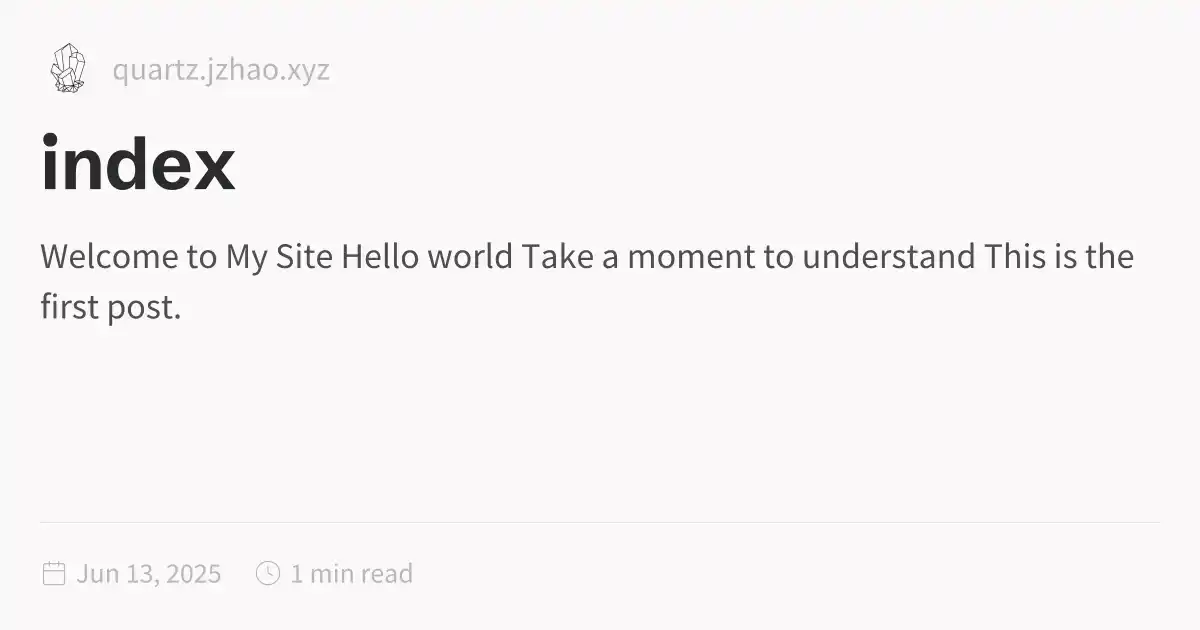
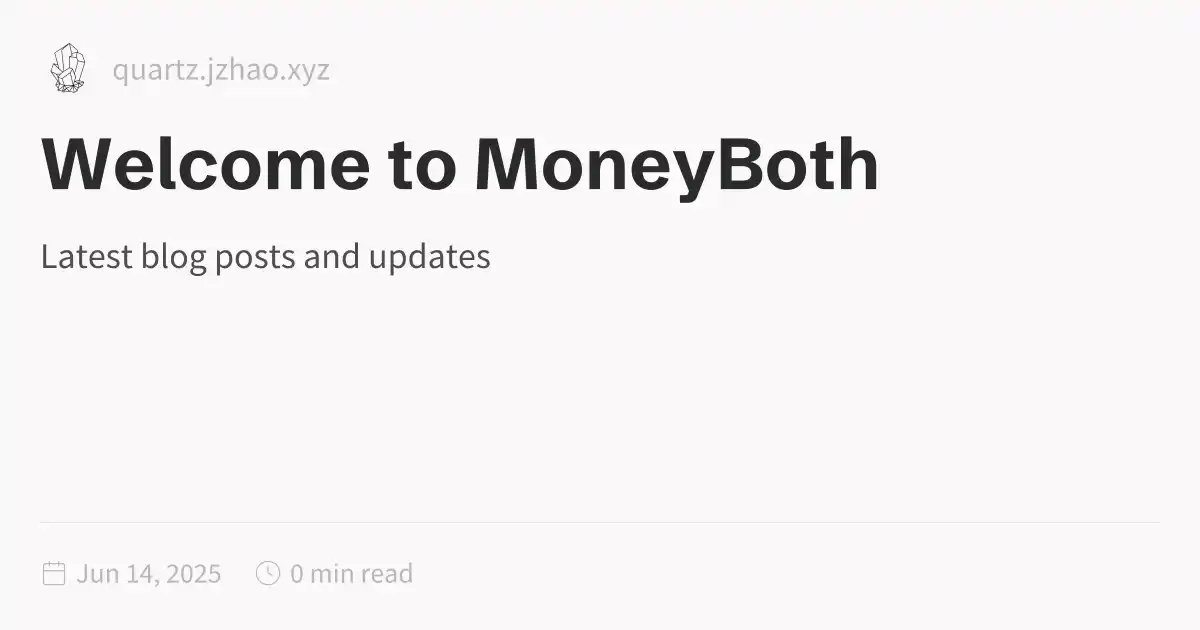
Update site content

Changed region(s): [[0.0308, 0.2111, 0.74, 0.3317], [0.0308, 0.3921, 0.9558, 0.5127]]

diff --git a/blog.html b/blog.html
@@ -1,0 +1,131 @@
+<!DOCTYPE html>
+<html lang="en"><head><title>Blog</title><meta charset="utf-8"/><link rel="preconnect" href="https://fonts.googleapis.com"/><link rel="preconnect" href="https://fonts.gstatic.com"/><link rel="stylesheet" href="https://fonts.googleapis.com/css2?family=Schibsted Grotesk:wght@400;700&amp;family=Source Sans Pro:ital,wght@0,400;0,600;1,400;1,600&amp;family=IBM Plex Mono:wght@400;600&amp;display=swap"/><link rel="preconnect" href="https://cdnjs.cloudflare.com" crossorigin="anonymous"/><meta name="viewport" content="width=device-width, initial-scale=1.0"/><meta name="og:site_name" content="MoneyBoth"/><meta property="og:title" content="Blog"/><meta property="og:type" content="website"/><meta name="twitter:card" content="summary_large_image"/><meta name="twitter:title" content="Blog"/><meta name="twitter:description" content="All blog posts"/><meta property="og:description" content="All blog posts"/><meta property="og:image:alt" content="All blog posts"/><meta property="twitter:domain" content="quartz.jzhao.xyz"/><meta property="og:url" content="https://quartz.jzhao.xyz/blog"/><meta property="twitter:url" content="https://quartz.jzhao.xyz/blog"/><link rel="icon" href="./static/icon.png"/><meta name="description" content="All blog posts"/><meta name="generator" content="Quartz"/><link href="./index.css" rel="stylesheet" type="text/css" spa-preserve/><style>.expand-button {
+  position: absolute;
+  display: flex;
+  float: right;
+  padding: 0.4rem;
+  margin: 0.3rem;
+  right: 0;
+  color: var(--gray);
+  border-color: var(--dark);
+  background-color: var(--light);
+  border: 1px solid;
+  border-radius: 5px;
+  opacity: 0;
+  transition: 0.2s;
+}
+.expand-button > svg {
+  fill: var(--light);
+  filter: contrast(0.3);
+}
+.expand-button:hover {
+  cursor: pointer;
+  border-color: var(--secondary);
+}
+.expand-button:focus {
+  outline: 0;
+}
+
+pre:hover > .expand-button {
+  opacity: 1;
+  transition: 0.2s;
+}
+
+#mermaid-container {
+  position: fixed;
+  contain: layout;
+  z-index: 999;
+  left: 0;
+  top: 0;
+  width: 100vw;
+  height: 100vh;
+  overflow: hidden;
+  display: none;
+  backdrop-filter: blur(4px);
+  background: rgba(0, 0, 0, 0.5);
+}
+#mermaid-container.active {
+  display: inline-block;
+}
+#mermaid-container > #mermaid-space {
+  border: 1px solid var(--lightgray);
+  background-color: var(--light);
+  border-radius: 5px;
+  position: fixed;
+  top: 50%;
+  left: 50%;
+  transform: translate(-50%, -50%);
+  height: 80vh;
+  width: 80vw;
+  overflow: hidden;
+}
+#mermaid-container > #mermaid-space > .mermaid-content {
+  padding: 2rem;
+  position: relative;
+  transform-origin: 0 0;
+  transition: transform 0.1s ease;
+  overflow: visible;
+  min-height: 200px;
+  min-width: 200px;
+}
+#mermaid-container > #mermaid-space > .mermaid-content pre {
+  margin: 0;
+  border: none;
+}
+#mermaid-container > #mermaid-space > .mermaid-content svg {
+  max-width: none;
+  height: auto;
+}
+#mermaid-container > #mermaid-space > .mermaid-controls {
+  position: absolute;
+  bottom: 20px;
+  right: 20px;
+  display: flex;
+  gap: 8px;
+  padding: 8px;
+  background: var(--light);
+  border: 1px solid var(--lightgray);
+  border-radius: 6px;
+  box-shadow: 0 2px 4px rgba(0, 0, 0, 0.1);
+  z-index: 2;
+}
+#mermaid-container > #mermaid-space > .mermaid-controls .mermaid-control-button {
+  display: flex;
+  align-items: center;
+  justify-content: center;
+  width: 32px;
+  height: 32px;
+  padding: 0;
+  border: 1px solid var(--lightgray);
+  background: var(--light);
+  color: var(--dark);
+  border-radius: 4px;
+  cursor: pointer;
+  font-size: 16px;
+  font-family: var(--bodyFont);
+  transition: all 0.2s ease;
+}
+#mermaid-container > #mermaid-space > .mermaid-controls .mermaid-control-button:hover {
+  background: var(--lightgray);
+}
+#mermaid-container > #mermaid-space > .mermaid-controls .mermaid-control-button:active {
+  transform: translateY(1px);
+}
+#mermaid-container > #mermaid-space > .mermaid-controls .mermaid-control-button:nth-child(2) {
+  width: auto;
+  padding: 0 12px;
+  font-size: 14px;
+}
[1 lines of base64/hex data omitted]
+                s-3.542,0.634-4.898,1.688l-7.669-7.669C16.785,10.424,17,9.74,17,9c0-2.206-1.794-4-4-4S9,6.794,9,9s1.794,4,4,4
+                c0.74,0,1.424-0.215,2.019-0.567l7.669,7.669C21.634,21.458,21,23.154,21,25s0.634,3.542,1.688,4.897L10.024,42.562
+                C8.958,41.595,7.549,41,6,41c-3.309,0-6,2.691-6,6s2.691,6,6,6s6-2.691,6-6c0-1.035-0.263-2.009-0.726-2.86l12.829-12.829
+                c1.106,0.86,2.44,1.436,3.898,1.619v10.16c-2.833,0.478-5,2.942-5,5.91c0,3.309,2.691,6,6,6s6-2.691,6-6c0-2.967-2.167-5.431-5-5.91
+                v-10.16c1.458-0.183,2.792-0.759,3.898-1.619l7.669,7.669C41.215,39.576,41,40.26,41,41c0,2.206,1.794,4,4,4s4-1.794,4-4
+                s-1.794-4-4-4c-0.74,0-1.424,0.215-2.019,0.567l-7.669-7.669C36.366,28.542,37,26.846,37,25s-0.634-3.542-1.688-4.897l9.665-9.665
+                C46.042,11.405,47.451,12,49,12c3.309,0,6-2.691,6-6S52.309,0,49,0z M11,9c0-1.103,0.897-2,2-2s2,0.897,2,2s-0.897,2-2,2
+                S11,10.103,11,9z M6,51c-2.206,0-4-1.794-4-4s1.794-4,4-4s4,1.794,4,4S8.206,51,6,51z M33,49c0,2.206-1.794,4-4,4s-4-1.794-4-4
+                s1.794-4,4-4S33,46.794,33,49z M29,31c-3.309,0-6-2.691-6-6s2.691-6,6-6s6,2.691,6,6S32.309,31,29,31z M47,41c0,1.103-0.897,2-2,2
+                s-2-0.897-2-2s0.897-2,2-2S47,39.897,47,41z M49,10c-2.206,0-4-1.794-4-4s1.794-4,4-4s4,1.794,4,4S51.206,10,49,10z"></path></svg></button></div><div class="global-graph-outer"><div class="global-graph-container" data-cfg="{&quot;drag&quot;:true,&quot;zoom&quot;:true,&quot;depth&quot;:-1,&quot;scale&quot;:0.9,&quot;repelForce&quot;:0.5,&quot;centerForce&quot;:0.2,&quot;linkDistance&quot;:30,&quot;fontSize&quot;:0.6,&quot;opacityScale&quot;:1,&quot;showTags&quot;:true,&quot;removeTags&quot;:[],&quot;focusOnHover&quot;:true,&quot;enableRadial&quot;:true}"></div></div></div></div><footer class><p>© 2025 <a href="https://moneyboth.com">MoneyBoth.com</a> — All rights reserved</p><ul><li><a href="/">Home</a></li></ul></footer></div></div></body><script type="application/javascript">function n(){let t=this.parentElement;t.classList.toggle("is-collapsed");let e=t.getElementsByClassName("callout-content")[0];if(!e)return;let l=t.classList.contains("is-collapsed");e.style.gridTemplateRows=l?"0fr":"1fr"}function c(){let t=document.getElementsByClassName("callout is-collapsible");for(let e of t){let l=e.getElementsByClassName("callout-title")[0],s=e.getElementsByClassName("callout-content")[0];if(!l||!s)continue;l.addEventListener("click",n),window.addCleanup(()=>l.removeEventListener("click",n));let o=e.classList.contains("is-collapsed");s.style.gridTemplateRows=o?"0fr":"1fr"}}document.addEventListener("nav",c);
+</script><script type="module">function f(i,e){if(!i)return;function r(o){o.target===this&&(o.preventDefault(),o.stopPropagation(),e())}function t(o){o.key.startsWith("Esc")&&(o.preventDefault(),e())}i?.addEventListener("click",r),window.addCleanup(()=>i?.removeEventListener("click",r)),document.addEventListener("keydown",t),window.addCleanup(()=>document.removeEventListener("keydown",t))}function y(i){for(;i.firstChild;)i.removeChild(i.firstChild)}var h=class{constructor(e,r){this.container=e;this.content=r;this.setupEventListeners(),this.setupNavigationControls(),this.resetTransform()}isDragging=!1;startPan={x:0,y:0};currentPan={x:0,y:0};scale=1;MIN_SCALE=.5;MAX_SCALE=3;cleanups=[];setupEventListeners(){let e=this.onMouseDown.bind(this),r=this.onMouseMove.bind(this),t=this.onMouseUp.bind(this),o=this.resetTransform.bind(this);this.container.addEventListener("mousedown",e),document.addEventListener("mousemove",r),document.addEventListener("mouseup",t),window.addEventListener("resize",o),this.cleanups.push(()=>this.container.removeEventListener("mousedown",e),()=>document.removeEventListener("mousemove",r),()=>document.removeEventListener("mouseup",t),()=>window.removeEventListener("resize",o))}cleanup(){for(let e of this.cleanups)e()}setupNavigationControls(){let e=document.createElement("div");e.className="mermaid-controls";let r=this.createButton("+",()=>this.zoom(.1)),t=this.createButton("-",()=>this.zoom(-.1)),o=this.createButton("Reset",()=>this.resetTransform());e.appendChild(t),e.appendChild(o),e.appendChild(r),this.container.appendChild(e)}createButton(e,r){let t=document.createElement("button");return t.textContent=e,t.className="mermaid-control-button",t.addEventListener("click",r),window.addCleanup(()=>t.removeEventListener("click",r)),t}onMouseDown(e){e.button===0&&(this.isDragging=!0,this.startPan={x:e.clientX-this.currentPan.x,y:e.clientY-this.currentPan.y},this.container.style.cursor="grabbing")}onMouseMove(e){this.isDragging&&(e.preventDefault(),this.currentPan={x:e.clientX-this.startPan.x,y:e.clientY-this.startPan.y},this.updateTransform())}onMouseUp(){this.isDragging=!1,this.container.style.cursor="grab"}zoom(e){let r=Math.min(Math.max(this.scale+e,this.MIN_SCALE),this.MAX_SCALE),t=this.content.getBoundingClientRect(),o=t.width/2,n=t.height/2,c=r-this.scale;this.currentPan.x-=o*c,this.currentPan.y-=n*c,this.scale=r,this.updateTransform()}updateTransform(){this.content.style.transform=`translate(${this.currentPan.x}px, ${this.currentPan.y}px) scale(${this.scale})`}resetTransform(){this.scale=1;let e=this.content.querySelector("svg");this.currentPan={x:e.getBoundingClientRect().width/2,y:e.getBoundingClientRect().height/2},this.updateTransform()}},C=["--secondary","--tertiary","--gray","--light","--lightgray","--highlight","--dark","--darkgray","--codeFont"],E;document.addEventListener("nav",async()=>{let e=document.querySelector(".center").querySelectorAll("code.mermaid");if(e.length===0)return;E||=await import("https://cdnjs.cloudflare.com/ajax/libs/mermaid/11.4.0/mermaid.esm.min.mjs");let r=E.default,t=new WeakMap;for(let n of e)t.set(n,n.innerText);async function o(){for(let s of e){s.removeAttribute("data-processed");let a=t.get(s);a&&(s.innerHTML=a)}let n=C.reduce((s,a)=>(s[a]=window.getComputedStyle(document.documentElement).getPropertyValue(a),s),{}),c=document.documentElement.getAttribute("saved-theme")==="dark";r.initialize({startOnLoad:!1,securityLevel:"loose",theme:c?"dark":"base",themeVariables:{fontFamily:n["--codeFont"],primaryColor:n["--light"],primaryTextColor:n["--darkgray"],primaryBorderColor:n["--tertiary"],lineColor:n["--darkgray"],secondaryColor:n["--secondary"],tertiaryColor:n["--tertiary"],clusterBkg:n["--light"],edgeLabelBackground:n["--highlight"]}}),await r.run({nodes:e})}await o(),document.addEventListener("themechange",o),window.addCleanup(()=>document.removeEventListener("themechange",o));for(let n=0;n<e.length;n++){let v=function(){let g=l.querySelector("#mermaid-space"),m=l.querySelector(".mermaid-content");if(!m)return;y(m);let w=c.querySelector("svg").cloneNode(!0);m.appendChild(w),l.classList.add("active"),g.style.cursor="grab",u=new h(g,m)},M=function(){l.classList.remove("active"),u?.cleanup(),u=null},c=e[n],s=c.parentElement,a=s.querySelector(".clipboard-button"),d=s.querySelector(".expand-button"),p=window.getComputedStyle(a),L=a.offsetWidth+parseFloat(p.marginLeft||"0")+parseFloat(p.marginRight||"0");d.style.right=`calc(${L}px + 0.3rem)`,s.prepend(d);let l=s.querySelector("#mermaid-container");if(!l)return;let u=null;d.addEventListener("click",v),f(l,M),window.addCleanup(()=>{u?.cleanup(),d.removeEventListener("click",v)})}});
+</script><script src="https://cdn.jsdelivr.net/npm/katex@0.16.11/dist/contrib/copy-tex.min.js" type="application/javascript"></script><script src="./postscript.js" type="module"></script></html>

diff --git a/index.html b/index.html
@@ -1,5 +1,5 @@
 <!DOCTYPE html>
-<html lang="en"><head><title>index</title><meta charset="utf-8"/><link rel="preconnect" href="https://fonts.googleapis.com"/><link rel="preconnect" href="https://fonts.gstatic.com"/><link rel="stylesheet" href="https://fonts.googleapis.com/css2?family=Schibsted Grotesk:wght@400;700&amp;family=Source Sans Pro:ital,wght@0,400;0,600;1,400;1,600&amp;family=IBM Plex Mono:wght@400;600&amp;display=swap"/><link rel="preconnect" href="https://cdnjs.cloudflare.com" crossorigin="anonymous"/><meta name="viewport" content="width=device-width, initial-scale=1.0"/><meta name="og:site_name" content="MoneyBoth"/><meta property="og:title" content="index"/><meta property="og:type" content="website"/><meta name="twitter:card" content="summary_large_image"/><meta name="twitter:title" content="index"/><meta name="twitter:description" content="Welcome to My Site Hello world Take a moment to understand This is the first post."/><meta property="og:description" content="Welcome to My Site Hello world Take a moment to understand This is the first post."/><meta property="og:image:alt" content="Welcome to My Site Hello world Take a moment to understand This is the first post."/><meta property="twitter:domain" content="quartz.jzhao.xyz"/><meta property="og:url" content="https://quartz.jzhao.xyz/index"/><meta property="twitter:url" content="https://quartz.jzhao.xyz/index"/><link rel="icon" href="./static/icon.png"/><meta name="description" content="Welcome to My Site Hello world Take a moment to understand This is the first post."/><meta name="generator" content="Quartz"/><link href="./index.css" rel="stylesheet" type="text/css" spa-preserve/><style>.expand-button {
+<html lang="en"><head><title>Welcome to MoneyBoth</title><meta charset="utf-8"/><link rel="preconnect" href="https://fonts.googleapis.com"/><link rel="preconnect" href="https://fonts.gstatic.com"/><link rel="stylesheet" href="https://fonts.googleapis.com/css2?family=Schibsted Grotesk:wght@400;700&amp;family=Source Sans Pro:ital,wght@0,400;0,600;1,400;1,600&amp;family=IBM Plex Mono:wght@400;600&amp;display=swap"/><link rel="preconnect" href="https://cdnjs.cloudflare.com" crossorigin="anonymous"/><meta name="viewport" content="width=device-width, initial-scale=1.0"/><meta name="og:site_name" content="MoneyBoth"/><meta property="og:title" content="Welcome to MoneyBoth"/><meta property="og:type" content="website"/><meta name="twitter:card" content="summary_large_image"/><meta name="twitter:title" content="Welcome to MoneyBoth"/><meta name="twitter:description" content="Latest blog posts and updates"/><meta property="og:description" content="Latest blog posts and updates"/><meta property="og:image:alt" content="Latest blog posts and updates"/><meta property="twitter:domain" content="quartz.jzhao.xyz"/><meta property="og:url" content="https://quartz.jzhao.xyz/index"/><meta property="twitter:url" content="https://quartz.jzhao.xyz/index"/><link rel="icon" href="./static/icon.png"/><meta name="description" content="Latest blog posts and updates"/><meta name="generator" content="Quartz"/><link href="./index.css" rel="stylesheet" type="text/css" spa-preserve/><style>.expand-button {
   position: absolute;
   display: flex;
   float: right;
@@ -116,12 +116,7 @@ pre:hover > .expand-button {
   padding: 0 12px;
   font-size: 14px;
 }
[1 lines of base64/hex data omitted]
-<p>Hello world</p>
-<ul>
-<li>Take a moment to understand</li>
-</ul>
-<p>This is the first post.</p></article><hr/><div class="page-footer"></div></div><div class="right sidebar"><div class="graph"><h3>Graph View</h3><div class="graph-outer"><div class="graph-container" data-cfg="{&quot;drag&quot;:true,&quot;zoom&quot;:true,&quot;depth&quot;:1,&quot;scale&quot;:1.1,&quot;repelForce&quot;:0.5,&quot;centerForce&quot;:0.3,&quot;linkDistance&quot;:30,&quot;fontSize&quot;:0.6,&quot;opacityScale&quot;:1,&quot;showTags&quot;:true,&quot;removeTags&quot;:[],&quot;focusOnHover&quot;:false,&quot;enableRadial&quot;:false}"></div><button class="global-graph-icon" aria-label="Global Graph"><svg version="1.1" xmlns="http://www.w3.org/2000/svg" xmlns:xlink="http://www.w3.org/1999/xlink" x="0px" y="0px" viewBox="0 0 55 55" fill="currentColor" xml:space="preserve"><path d="M49,0c-3.309,0-6,2.691-6,6c0,1.035,0.263,2.009,0.726,2.86l-9.829,9.829C32.542,17.634,30.846,17,29,17
[1 lines of base64/hex data omitted]
                 s-3.542,0.634-4.898,1.688l-7.669-7.669C16.785,10.424,17,9.74,17,9c0-2.206-1.794-4-4-4S9,6.794,9,9s1.794,4,4,4
                 c0.74,0,1.424-0.215,2.019-0.567l7.669,7.669C21.634,21.458,21,23.154,21,25s0.634,3.542,1.688,4.897L10.024,42.562
                 C8.958,41.595,7.549,41,6,41c-3.309,0-6,2.691-6,6s2.691,6,6,6s6-2.691,6-6c0-1.035-0.263-2.009-0.726-2.86l12.829-12.829

diff --git a/404.html b/404.html
@@ -116,6 +116,6 @@ pre:hover > .expand-button {
   padding: 0 12px;
   font-size: 14px;
 }
[2 lines of base64/hex data omitted]
 </script><script type="module">function f(i,e){if(!i)return;function r(o){o.target===this&&(o.preventDefault(),o.stopPropagation(),e())}function t(o){o.key.startsWith("Esc")&&(o.preventDefault(),e())}i?.addEventListener("click",r),window.addCleanup(()=>i?.removeEventListener("click",r)),document.addEventListener("keydown",t),window.addCleanup(()=>document.removeEventListener("keydown",t))}function y(i){for(;i.firstChild;)i.removeChild(i.firstChild)}var h=class{constructor(e,r){this.container=e;this.content=r;this.setupEventListeners(),this.setupNavigationControls(),this.resetTransform()}isDragging=!1;startPan={x:0,y:0};currentPan={x:0,y:0};scale=1;MIN_SCALE=.5;MAX_SCALE=3;cleanups=[];setupEventListeners(){let e=this.onMouseDown.bind(this),r=this.onMouseMove.bind(this),t=this.onMouseUp.bind(this),o=this.resetTransform.bind(this);this.container.addEventListener("mousedown",e),document.addEventListener("mousemove",r),document.addEventListener("mouseup",t),window.addEventListener("resize",o),this.cleanups.push(()=>this.container.removeEventListener("mousedown",e),()=>document.removeEventListener("mousemove",r),()=>document.removeEventListener("mouseup",t),()=>window.removeEventListener("resize",o))}cleanup(){for(let e of this.cleanups)e()}setupNavigationControls(){let e=document.createElement("div");e.className="mermaid-controls";let r=this.createButton("+",()=>this.zoom(.1)),t=this.createButton("-",()=>this.zoom(-.1)),o=this.createButton("Reset",()=>this.resetTransform());e.appendChild(t),e.appendChild(o),e.appendChild(r),this.container.appendChild(e)}createButton(e,r){let t=document.createElement("button");return t.textContent=e,t.className="mermaid-control-button",t.addEventListener("click",r),window.addCleanup(()=>t.removeEventListener("click",r)),t}onMouseDown(e){e.button===0&&(this.isDragging=!0,this.startPan={x:e.clientX-this.currentPan.x,y:e.clientY-this.currentPan.y},this.container.style.cursor="grabbing")}onMouseMove(e){this.isDragging&&(e.preventDefault(),this.currentPan={x:e.clientX-this.startPan.x,y:e.clientY-this.startPan.y},this.updateTransform())}onMouseUp(){this.isDragging=!1,this.container.style.cursor="grab"}zoom(e){let r=Math.min(Math.max(this.scale+e,this.MIN_SCALE),this.MAX_SCALE),t=this.content.getBoundingClientRect(),o=t.width/2,n=t.height/2,c=r-this.scale;this.currentPan.x-=o*c,this.currentPan.y-=n*c,this.scale=r,this.updateTransform()}updateTransform(){this.content.style.transform=`translate(${this.currentPan.x}px, ${this.currentPan.y}px) scale(${this.scale})`}resetTransform(){this.scale=1;let e=this.content.querySelector("svg");this.currentPan={x:e.getBoundingClientRect().width/2,y:e.getBoundingClientRect().height/2},this.updateTransform()}},C=["--secondary","--tertiary","--gray","--light","--lightgray","--highlight","--dark","--darkgray","--codeFont"],E;document.addEventListener("nav",async()=>{let e=document.querySelector(".center").querySelectorAll("code.mermaid");if(e.length===0)return;E||=await import("https://cdnjs.cloudflare.com/ajax/libs/mermaid/11.4.0/mermaid.esm.min.mjs");let r=E.default,t=new WeakMap;for(let n of e)t.set(n,n.innerText);async function o(){for(let s of e){s.removeAttribute("data-processed");let a=t.get(s);a&&(s.innerHTML=a)}let n=C.reduce((s,a)=>(s[a]=window.getComputedStyle(document.documentElement).getPropertyValue(a),s),{}),c=document.documentElement.getAttribute("saved-theme")==="dark";r.initialize({startOnLoad:!1,securityLevel:"loose",theme:c?"dark":"base",themeVariables:{fontFamily:n["--codeFont"],primaryColor:n["--light"],primaryTextColor:n["--darkgray"],primaryBorderColor:n["--tertiary"],lineColor:n["--darkgray"],secondaryColor:n["--secondary"],tertiaryColor:n["--tertiary"],clusterBkg:n["--light"],edgeLabelBackground:n["--highlight"]}}),await r.run({nodes:e})}await o(),document.addEventListener("themechange",o),window.addCleanup(()=>document.removeEventListener("themechange",o));for(let n=0;n<e.length;n++){let v=function(){let g=l.querySelector("#mermaid-space"),m=l.querySelector(".mermaid-content");if(!m)return;y(m);let w=c.querySelector("svg").cloneNode(!0);m.appendChild(w),l.classList.add("active"),g.style.cursor="grab",u=new h(g,m)},M=function(){l.classList.remove("active"),u?.cleanup(),u=null},c=e[n],s=c.parentElement,a=s.querySelector(".clipboard-button"),d=s.querySelector(".expand-button"),p=window.getComputedStyle(a),L=a.offsetWidth+parseFloat(p.marginLeft||"0")+parseFloat(p.marginRight||"0");d.style.right=`calc(${L}px + 0.3rem)`,s.prepend(d);let l=s.querySelector("#mermaid-container");if(!l)return;let u=null;d.addEventListener("click",v),f(l,M),window.addCleanup(()=>{u?.cleanup(),d.removeEventListener("click",v)})}});
 </script><script src="https://cdn.jsdelivr.net/npm/katex@0.16.11/dist/contrib/copy-tex.min.js" type="application/javascript"></script><script src="/postscript.js" type="module"></script></html>

diff --git a/blog-first-post.html b/blog-first-post.html
@@ -116,7 +116,7 @@ pre:hover > .expand-button {
   padding: 0 12px;
   font-size: 14px;
 }
[2 lines of base64/hex data omitted]
 <p>You can add <strong>Markdown</strong>, links, images, etc.</p>
 <ul>
 <li>Bullet points</li>

diff --git a/tags/blog.html b/tags/blog.html
@@ -116,6 +116,6 @@ pre:hover > .expand-button {
   padding: 0 12px;
   font-size: 14px;
 }
[2 lines of base64/hex data omitted]
 </script><script type="module">function f(i,e){if(!i)return;function r(o){o.target===this&&(o.preventDefault(),o.stopPropagation(),e())}function t(o){o.key.startsWith("Esc")&&(o.preventDefault(),e())}i?.addEventListener("click",r),window.addCleanup(()=>i?.removeEventListener("click",r)),document.addEventListener("keydown",t),window.addCleanup(()=>document.removeEventListener("keydown",t))}function y(i){for(;i.firstChild;)i.removeChild(i.firstChild)}var h=class{constructor(e,r){this.container=e;this.content=r;this.setupEventListeners(),this.setupNavigationControls(),this.resetTransform()}isDragging=!1;startPan={x:0,y:0};currentPan={x:0,y:0};scale=1;MIN_SCALE=.5;MAX_SCALE=3;cleanups=[];setupEventListeners(){let e=this.onMouseDown.bind(this),r=this.onMouseMove.bind(this),t=this.onMouseUp.bind(this),o=this.resetTransform.bind(this);this.container.addEventListener("mousedown",e),document.addEventListener("mousemove",r),document.addEventListener("mouseup",t),window.addEventListener("resize",o),this.cleanups.push(()=>this.container.removeEventListener("mousedown",e),()=>document.removeEventListener("mousemove",r),()=>document.removeEventListener("mouseup",t),()=>window.removeEventListener("resize",o))}cleanup(){for(let e of this.cleanups)e()}setupNavigationControls(){let e=document.createElement("div");e.className="mermaid-controls";let r=this.createButton("+",()=>this.zoom(.1)),t=this.createButton("-",()=>this.zoom(-.1)),o=this.createButton("Reset",()=>this.resetTransform());e.appendChild(t),e.appendChild(o),e.appendChild(r),this.container.appendChild(e)}createButton(e,r){let t=document.createElement("button");return t.textContent=e,t.className="mermaid-control-button",t.addEventListener("click",r),window.addCleanup(()=>t.removeEventListener("click",r)),t}onMouseDown(e){e.button===0&&(this.isDragging=!0,this.startPan={x:e.clientX-this.currentPan.x,y:e.clientY-this.currentPan.y},this.container.style.cursor="grabbing")}onMouseMove(e){this.isDragging&&(e.preventDefault(),this.currentPan={x:e.clientX-this.startPan.x,y:e.clientY-this.startPan.y},this.updateTransform())}onMouseUp(){this.isDragging=!1,this.container.style.cursor="grab"}zoom(e){let r=Math.min(Math.max(this.scale+e,this.MIN_SCALE),this.MAX_SCALE),t=this.content.getBoundingClientRect(),o=t.width/2,n=t.height/2,c=r-this.scale;this.currentPan.x-=o*c,this.currentPan.y-=n*c,this.scale=r,this.updateTransform()}updateTransform(){this.content.style.transform=`translate(${this.currentPan.x}px, ${this.currentPan.y}px) scale(${this.scale})`}resetTransform(){this.scale=1;let e=this.content.querySelector("svg");this.currentPan={x:e.getBoundingClientRect().width/2,y:e.getBoundingClientRect().height/2},this.updateTransform()}},C=["--secondary","--tertiary","--gray","--light","--lightgray","--highlight","--dark","--darkgray","--codeFont"],E;document.addEventListener("nav",async()=>{let e=document.querySelector(".center").querySelectorAll("code.mermaid");if(e.length===0)return;E||=await import("https://cdnjs.cloudflare.com/ajax/libs/mermaid/11.4.0/mermaid.esm.min.mjs");let r=E.default,t=new WeakMap;for(let n of e)t.set(n,n.innerText);async function o(){for(let s of e){s.removeAttribute("data-processed");let a=t.get(s);a&&(s.innerHTML=a)}let n=C.reduce((s,a)=>(s[a]=window.getComputedStyle(document.documentElement).getPropertyValue(a),s),{}),c=document.documentElement.getAttribute("saved-theme")==="dark";r.initialize({startOnLoad:!1,securityLevel:"loose",theme:c?"dark":"base",themeVariables:{fontFamily:n["--codeFont"],primaryColor:n["--light"],primaryTextColor:n["--darkgray"],primaryBorderColor:n["--tertiary"],lineColor:n["--darkgray"],secondaryColor:n["--secondary"],tertiaryColor:n["--tertiary"],clusterBkg:n["--light"],edgeLabelBackground:n["--highlight"]}}),await r.run({nodes:e})}await o(),document.addEventListener("themechange",o),window.addCleanup(()=>document.removeEventListener("themechange",o));for(let n=0;n<e.length;n++){let v=function(){let g=l.querySelector("#mermaid-space"),m=l.querySelector(".mermaid-content");if(!m)return;y(m);let w=c.querySelector("svg").cloneNode(!0);m.appendChild(w),l.classList.add("active"),g.style.cursor="grab",u=new h(g,m)},M=function(){l.classList.remove("active"),u?.cleanup(),u=null},c=e[n],s=c.parentElement,a=s.querySelector(".clipboard-button"),d=s.querySelector(".expand-button"),p=window.getComputedStyle(a),L=a.offsetWidth+parseFloat(p.marginLeft||"0")+parseFloat(p.marginRight||"0");d.style.right=`calc(${L}px + 0.3rem)`,s.prepend(d);let l=s.querySelector("#mermaid-container");if(!l)return;let u=null;d.addEventListener("click",v),f(l,M),window.addCleanup(()=>{u?.cleanup(),d.removeEventListener("click",v)})}});
 </script><script src="https://cdn.jsdelivr.net/npm/katex@0.16.11/dist/contrib/copy-tex.min.js" type="application/javascript"></script><script src="../postscript.js" type="module"></script></html>

diff --git a/tags/index.html b/tags/index.html
@@ -116,6 +116,6 @@ pre:hover > .expand-button {
   padding: 0 12px;
   font-size: 14px;
 }
[2 lines of base64/hex data omitted]
 </script><script type="module">function f(i,e){if(!i)return;function r(o){o.target===this&&(o.preventDefault(),o.stopPropagation(),e())}function t(o){o.key.startsWith("Esc")&&(o.preventDefault(),e())}i?.addEventListener("click",r),window.addCleanup(()=>i?.removeEventListener("click",r)),document.addEventListener("keydown",t),window.addCleanup(()=>document.removeEventListener("keydown",t))}function y(i){for(;i.firstChild;)i.removeChild(i.firstChild)}var h=class{constructor(e,r){this.container=e;this.content=r;this.setupEventListeners(),this.setupNavigationControls(),this.resetTransform()}isDragging=!1;startPan={x:0,y:0};currentPan={x:0,y:0};scale=1;MIN_SCALE=.5;MAX_SCALE=3;cleanups=[];setupEventListeners(){let e=this.onMouseDown.bind(this),r=this.onMouseMove.bind(this),t=this.onMouseUp.bind(this),o=this.resetTransform.bind(this);this.container.addEventListener("mousedown",e),document.addEventListener("mousemove",r),document.addEventListener("mouseup",t),window.addEventListener("resize",o),this.cleanups.push(()=>this.container.removeEventListener("mousedown",e),()=>document.removeEventListener("mousemove",r),()=>document.removeEventListener("mouseup",t),()=>window.removeEventListener("resize",o))}cleanup(){for(let e of this.cleanups)e()}setupNavigationControls(){let e=document.createElement("div");e.className="mermaid-controls";let r=this.createButton("+",()=>this.zoom(.1)),t=this.createButton("-",()=>this.zoom(-.1)),o=this.createButton("Reset",()=>this.resetTransform());e.appendChild(t),e.appendChild(o),e.appendChild(r),this.container.appendChild(e)}createButton(e,r){let t=document.createElement("button");return t.textContent=e,t.className="mermaid-control-button",t.addEventListener("click",r),window.addCleanup(()=>t.removeEventListener("click",r)),t}onMouseDown(e){e.button===0&&(this.isDragging=!0,this.startPan={x:e.clientX-this.currentPan.x,y:e.clientY-this.currentPan.y},this.container.style.cursor="grabbing")}onMouseMove(e){this.isDragging&&(e.preventDefault(),this.currentPan={x:e.clientX-this.startPan.x,y:e.clientY-this.startPan.y},this.updateTransform())}onMouseUp(){this.isDragging=!1,this.container.style.cursor="grab"}zoom(e){let r=Math.min(Math.max(this.scale+e,this.MIN_SCALE),this.MAX_SCALE),t=this.content.getBoundingClientRect(),o=t.width/2,n=t.height/2,c=r-this.scale;this.currentPan.x-=o*c,this.currentPan.y-=n*c,this.scale=r,this.updateTransform()}updateTransform(){this.content.style.transform=`translate(${this.currentPan.x}px, ${this.currentPan.y}px) scale(${this.scale})`}resetTransform(){this.scale=1;let e=this.content.querySelector("svg");this.currentPan={x:e.getBoundingClientRect().width/2,y:e.getBoundingClientRect().height/2},this.updateTransform()}},C=["--secondary","--tertiary","--gray","--light","--lightgray","--highlight","--dark","--darkgray","--codeFont"],E;document.addEventListener("nav",async()=>{let e=document.querySelector(".center").querySelectorAll("code.mermaid");if(e.length===0)return;E||=await import("https://cdnjs.cloudflare.com/ajax/libs/mermaid/11.4.0/mermaid.esm.min.mjs");let r=E.default,t=new WeakMap;for(let n of e)t.set(n,n.innerText);async function o(){for(let s of e){s.removeAttribute("data-processed");let a=t.get(s);a&&(s.innerHTML=a)}let n=C.reduce((s,a)=>(s[a]=window.getComputedStyle(document.documentElement).getPropertyValue(a),s),{}),c=document.documentElement.getAttribute("saved-theme")==="dark";r.initialize({startOnLoad:!1,securityLevel:"loose",theme:c?"dark":"base",themeVariables:{fontFamily:n["--codeFont"],primaryColor:n["--light"],primaryTextColor:n["--darkgray"],primaryBorderColor:n["--tertiary"],lineColor:n["--darkgray"],secondaryColor:n["--secondary"],tertiaryColor:n["--tertiary"],clusterBkg:n["--light"],edgeLabelBackground:n["--highlight"]}}),await r.run({nodes:e})}await o(),document.addEventListener("themechange",o),window.addCleanup(()=>document.removeEventListener("themechange",o));for(let n=0;n<e.length;n++){let v=function(){let g=l.querySelector("#mermaid-space"),m=l.querySelector(".mermaid-content");if(!m)return;y(m);let w=c.querySelector("svg").cloneNode(!0);m.appendChild(w),l.classList.add("active"),g.style.cursor="grab",u=new h(g,m)},M=function(){l.classList.remove("active"),u?.cleanup(),u=null},c=e[n],s=c.parentElement,a=s.querySelector(".clipboard-button"),d=s.querySelector(".expand-button"),p=window.getComputedStyle(a),L=a.offsetWidth+parseFloat(p.marginLeft||"0")+parseFloat(p.marginRight||"0");d.style.right=`calc(${L}px + 0.3rem)`,s.prepend(d);let l=s.querySelector("#mermaid-container");if(!l)return;let u=null;d.addEventListener("click",v),f(l,M),window.addCleanup(()=>{u?.cleanup(),d.removeEventListener("click",v)})}});
 </script><script src="https://cdn.jsdelivr.net/npm/katex@0.16.11/dist/contrib/copy-tex.min.js" type="application/javascript"></script><script src="../postscript.js" type="module"></script></html>

diff --git a/tags/thoughts.html b/tags/thoughts.html
@@ -116,6 +116,6 @@ pre:hover > .expand-button {
   padding: 0 12px;
   font-size: 14px;
 }
[2 lines of base64/hex data omitted]
 </script><script type="module">function f(i,e){if(!i)return;function r(o){o.target===this&&(o.preventDefault(),o.stopPropagation(),e())}function t(o){o.key.startsWith("Esc")&&(o.preventDefault(),e())}i?.addEventListener("click",r),window.addCleanup(()=>i?.removeEventListener("click",r)),document.addEventListener("keydown",t),window.addCleanup(()=>document.removeEventListener("keydown",t))}function y(i){for(;i.firstChild;)i.removeChild(i.firstChild)}var h=class{constructor(e,r){this.container=e;this.content=r;this.setupEventListeners(),this.setupNavigationControls(),this.resetTransform()}isDragging=!1;startPan={x:0,y:0};currentPan={x:0,y:0};scale=1;MIN_SCALE=.5;MAX_SCALE=3;cleanups=[];setupEventListeners(){let e=this.onMouseDown.bind(this),r=this.onMouseMove.bind(this),t=this.onMouseUp.bind(this),o=this.resetTransform.bind(this);this.container.addEventListener("mousedown",e),document.addEventListener("mousemove",r),document.addEventListener("mouseup",t),window.addEventListener("resize",o),this.cleanups.push(()=>this.container.removeEventListener("mousedown",e),()=>document.removeEventListener("mousemove",r),()=>document.removeEventListener("mouseup",t),()=>window.removeEventListener("resize",o))}cleanup(){for(let e of this.cleanups)e()}setupNavigationControls(){let e=document.createElement("div");e.className="mermaid-controls";let r=this.createButton("+",()=>this.zoom(.1)),t=this.createButton("-",()=>this.zoom(-.1)),o=this.createButton("Reset",()=>this.resetTransform());e.appendChild(t),e.appendChild(o),e.appendChild(r),this.container.appendChild(e)}createButton(e,r){let t=document.createElement("button");return t.textContent=e,t.className="mermaid-control-button",t.addEventListener("click",r),window.addCleanup(()=>t.removeEventListener("click",r)),t}onMouseDown(e){e.button===0&&(this.isDragging=!0,this.startPan={x:e.clientX-this.currentPan.x,y:e.clientY-this.currentPan.y},this.container.style.cursor="grabbing")}onMouseMove(e){this.isDragging&&(e.preventDefault(),this.currentPan={x:e.clientX-this.startPan.x,y:e.clientY-this.startPan.y},this.updateTransform())}onMouseUp(){this.isDragging=!1,this.container.style.cursor="grab"}zoom(e){let r=Math.min(Math.max(this.scale+e,this.MIN_SCALE),this.MAX_SCALE),t=this.content.getBoundingClientRect(),o=t.width/2,n=t.height/2,c=r-this.scale;this.currentPan.x-=o*c,this.currentPan.y-=n*c,this.scale=r,this.updateTransform()}updateTransform(){this.content.style.transform=`translate(${this.currentPan.x}px, ${this.currentPan.y}px) scale(${this.scale})`}resetTransform(){this.scale=1;let e=this.content.querySelector("svg");this.currentPan={x:e.getBoundingClientRect().width/2,y:e.getBoundingClientRect().height/2},this.updateTransform()}},C=["--secondary","--tertiary","--gray","--light","--lightgray","--highlight","--dark","--darkgray","--codeFont"],E;document.addEventListener("nav",async()=>{let e=document.querySelector(".center").querySelectorAll("code.mermaid");if(e.length===0)return;E||=await import("https://cdnjs.cloudflare.com/ajax/libs/mermaid/11.4.0/mermaid.esm.min.mjs");let r=E.default,t=new WeakMap;for(let n of e)t.set(n,n.innerText);async function o(){for(let s of e){s.removeAttribute("data-processed");let a=t.get(s);a&&(s.innerHTML=a)}let n=C.reduce((s,a)=>(s[a]=window.getComputedStyle(document.documentElement).getPropertyValue(a),s),{}),c=document.documentElement.getAttribute("saved-theme")==="dark";r.initialize({startOnLoad:!1,securityLevel:"loose",theme:c?"dark":"base",themeVariables:{fontFamily:n["--codeFont"],primaryColor:n["--light"],primaryTextColor:n["--darkgray"],primaryBorderColor:n["--tertiary"],lineColor:n["--darkgray"],secondaryColor:n["--secondary"],tertiaryColor:n["--tertiary"],clusterBkg:n["--light"],edgeLabelBackground:n["--highlight"]}}),await r.run({nodes:e})}await o(),document.addEventListener("themechange",o),window.addCleanup(()=>document.removeEventListener("themechange",o));for(let n=0;n<e.length;n++){let v=function(){let g=l.querySelector("#mermaid-space"),m=l.querySelector(".mermaid-content");if(!m)return;y(m);let w=c.querySelector("svg").cloneNode(!0);m.appendChild(w),l.classList.add("active"),g.style.cursor="grab",u=new h(g,m)},M=function(){l.classList.remove("active"),u?.cleanup(),u=null},c=e[n],s=c.parentElement,a=s.querySelector(".clipboard-button"),d=s.querySelector(".expand-button"),p=window.getComputedStyle(a),L=a.offsetWidth+parseFloat(p.marginLeft||"0")+parseFloat(p.marginRight||"0");d.style.right=`calc(${L}px + 0.3rem)`,s.prepend(d);let l=s.querySelector("#mermaid-container");if(!l)return;let u=null;d.addEventListener("click",v),f(l,M),window.addCleanup(()=>{u?.cleanup(),d.removeEventListener("click",v)})}});
 </script><script src="https://cdn.jsdelivr.net/npm/katex@0.16.11/dist/contrib/copy-tex.min.js" type="application/javascript"></script><script src="../postscript.js" type="module"></script></html>